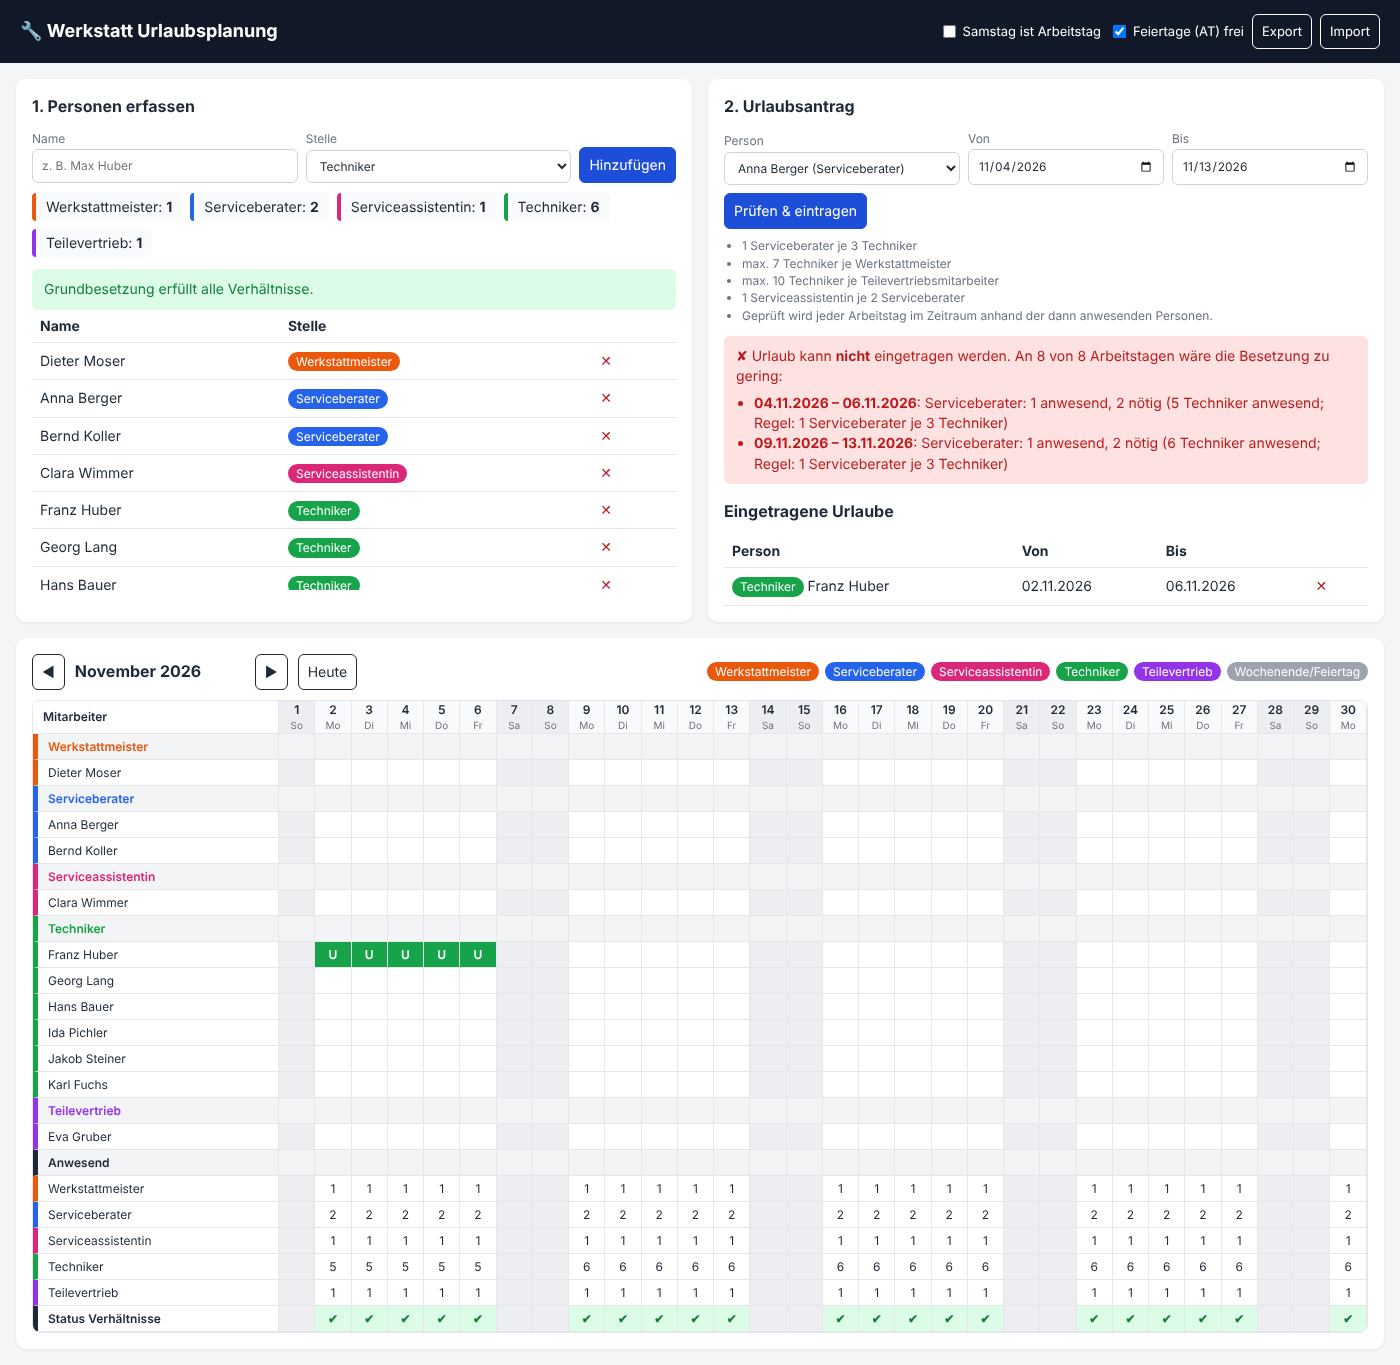
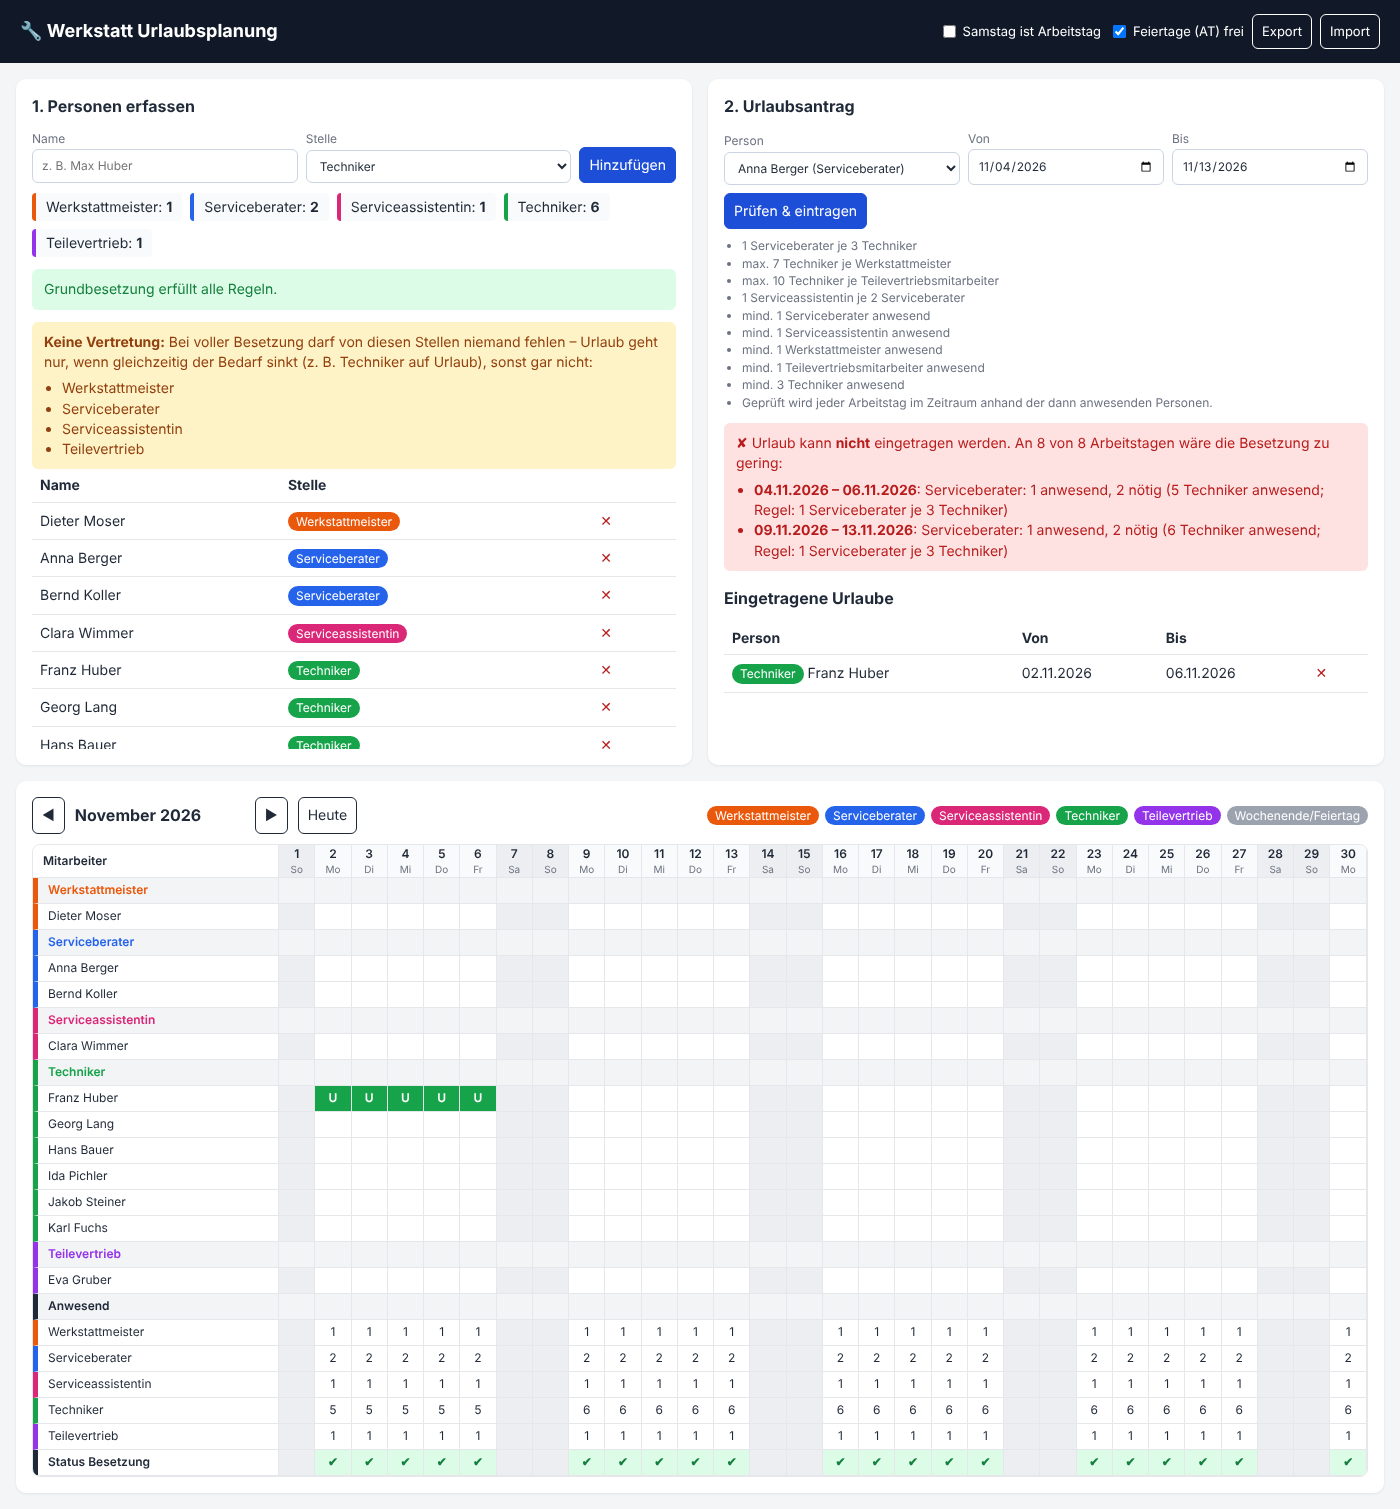
Mindestbesetzung je Stelle und Hinweis auf Stellen ohne Vertretung
Immer anwesend sein müssen mind. 1 Serviceberater, 1 Serviceassistentin,
1 Werkstattmeister, 1 Teilevertriebsmitarbeiter und 3 Techniker. Stellen,
bei denen bei voller Besetzung niemand fehlen darf, werden angezeigt.

Claude-Session: https://claude.ai/code/session_01HcJAJ2dLJcx57wHRAHDGje

diff --git a/rules.js b/rules.js
@@ -20,6 +20,12 @@
     { role: 'MEISTER', base: 'TECH', per: 7,  text: 'max. 7 Techniker je Werkstattmeister' },
     { role: 'TEILE',   base: 'TECH', per: 10, text: 'max. 10 Techniker je Teilevertriebsmitarbeiter' },
     { role: 'ASSIST',  base: 'SB',   per: 2,  text: '1 Serviceassistentin je 2 Serviceberater' },
+    // Mindestbesetzung je Stelle, unabhängig von den Verhältnissen
+    { role: 'SB',      min: 1, text: 'mind. 1 Serviceberater anwesend' },
+    { role: 'ASSIST',  min: 1, text: 'mind. 1 Serviceassistentin anwesend' },
+    { role: 'MEISTER', min: 1, text: 'mind. 1 Werkstattmeister anwesend' },
+    { role: 'TEILE',   min: 1, text: 'mind. 1 Teilevertriebsmitarbeiter anwesend' },
+    { role: 'TECH',    min: 3, text: 'mind. 3 Techniker anwesend' },
   ];
 
   // ---------- Datumshilfen (alles in UTC, Format YYYY-MM-DD) ----------
@@ -117,16 +123,16 @@
   function violations(counts) {
     const out = [];
     for (const r of RULES) {
-      const required = Math.ceil(counts[r.base] / r.per);
+      const required = r.min !== undefined ? r.min : Math.ceil(counts[r.base] / r.per);
       if (counts[r.role] < required) {
+        const why = r.min !== undefined
+          ? `Mindestbesetzung: ${r.text}`
+          : `${counts[r.base]} ${ROLES[r.base].label} anwesend; Regel: ${r.text}`;
         out.push({
           rule: r,
           required,
           present: counts[r.role],
-          base: counts[r.base],
-          message:
-            `${ROLES[r.role].label}: ${counts[r.role]} anwesend, ${required} nötig ` +
-            `(${counts[r.base]} ${ROLES[r.base].label} anwesend; Regel: ${r.text})`,
+          message: `${ROLES[r.role].label}: ${counts[r.role]} anwesend, ${required} nötig (${why})`,
         });
       }
     }
@@ -177,6 +183,20 @@
     return { ok: conflicts.length === 0, errors, conflicts, workdays: days.length };
   }
 
+  /*
+   * Stellen ohne Vertretung: Fehlt eine Person dieser Stelle bei sonst voller Besetzung,
+   * ist eine Regel verletzt. Diese Personen können nur Urlaub nehmen, wenn sich
+   * der Bedarf durch andere Abwesenheiten senkt (oder gar nicht).
+   */
+  function rolesWithoutCover(persons) {
+    const full = presentCounts('', persons, []);
+    return ROLE_ORDER.filter(role => {
+      if (!full[role]) return false;
+      const less = Object.assign({}, full, { [role]: full[role] - 1 });
+      return violations(less).length > violations(full).length;
+    });
+  }
+
   // Fasst aufeinanderfolgende Konflikttage mit gleicher Meldung zu Zeiträumen zusammen
   function groupConflicts(conflicts) {
     const groups = [];
@@ -193,7 +213,7 @@
     ROLES, ROLE_ORDER, RULES,
     parse, fmt, addDays, eachDay, weekday, deDate,
     easter, holidays, holidayName, isWorkday,
-    isAbsent, presentCounts, violations, checkRequest, groupConflicts,
+    isAbsent, presentCounts, violations, checkRequest, groupConflicts, rolesWithoutCover,
   };
   if (typeof module !== 'undefined' && module.exports) module.exports = api;
   else root.Rules = api;

diff --git a/app.js b/app.js
@@ -43,8 +43,12 @@
 
     const v = R.violations(counts);
     $('baseCheck').innerHTML = !state.persons.length ? '' : v.length
-      ? `<div class="msg bad"><b>Grundbesetzung verletzt die Verhältnisse schon ohne Urlaub:</b><ul>${v.map(x => `<li>${esc(x.message)}</li>`).join('')}</ul></div>`
-      : '<div class="msg ok">Grundbesetzung erfüllt alle Verhältnisse.</div>';
+      ? `<div class="msg bad"><b>Grundbesetzung verletzt die Regeln schon ohne Urlaub:</b><ul>${v.map(x => `<li>${esc(x.message)}</li>`).join('')}</ul></div>`
+      : '<div class="msg ok">Grundbesetzung erfüllt alle Regeln.</div>';
+    const noCover = state.persons.length && !v.length ? R.rolesWithoutCover(state.persons) : [];
+    if (noCover.length) {
+      $('baseCheck').innerHTML += `<div class="msg warn"><b>Keine Vertretung:</b> Bei voller Besetzung darf von diesen Stellen niemand fehlen – Urlaub geht nur, wenn gleichzeitig der Bedarf sinkt (z. B. Techniker auf Urlaub), sonst gar nicht:<ul>${noCover.map(r => `<li>${R.ROLES[r].label}</li>`).join('')}</ul></div>`;
+    }
 
     const list = sortedPersons();
     $('tblPersons').innerHTML = list.length
@@ -192,10 +196,10 @@
         html += '</tr>';
       }
       // Gesamtstatus
-      html += '<tr class="sum"><td class="name">Status Verhältnisse</td>';
+      html += '<tr class="sum"><td class="name">Status Besetzung</td>';
       for (const i of dayInfo) {
         if (!i.work) { html += `<td class="off" title="${esc(i.hol || 'kein Arbeitstag')}"></td>`; continue; }
-        const tip = i.viol.length ? i.viol.map(v => v.message).join('\n') : 'Alle Verhältnisse erfüllt';
+        const tip = i.viol.length ? i.viol.map(v => v.message).join('\n') : 'Alle Regeln erfüllt';
         html += `<td class="${i.viol.length ? 'badc' : 'okc'}" title="${esc(tip)}">${i.viol.length ? '✘' : '✔'}</td>`;
       }
       html += '</tr>';

diff --git a/test/rules.test.js b/test/rules.test.js
@@ -72,3 +72,26 @@ test('Bestehende Unterbesetzung blockiert nicht unbeteiligte Stellen', () => {
   const res = R.checkRequest({ personId: 'TEILE0', from: '2026-11-02', to: '2026-11-03' }, persons, [], settings);
   assert.strictEqual(res.ok, true);
 });
+
+test('Mindestbesetzung: 3 Techniker müssen bleiben', () => {
+  const persons = team({ sb: 2, tech: 3, meister: 1, teile: 1, assist: 1 });
+  const res = R.checkRequest({ personId: 'TECH0', from: '2026-11-02', to: '2026-11-02' }, persons, [], settings);
+  assert.strictEqual(res.ok, false);
+  assert.match(res.conflicts[0].messages[0], /Techniker: 2 anwesend, 3 nötig \(Mindestbesetzung/);
+});
+
+test('Mindestbesetzung: letzter Werkstattmeister/Teilevertrieb/Assistentin/SB darf nicht fehlen', () => {
+  // Wenige Techniker -> Verhältnisse verlangen nichts, nur die Mindestbesetzung greift
+  const persons = team({ sb: 1, tech: 3, meister: 1, teile: 1, assist: 1 });
+  for (const id of ['MEISTER0', 'TEILE0', 'ASSIST0', 'SB0']) {
+    const res = R.checkRequest({ personId: id, from: '2026-11-02', to: '2026-11-02' }, persons, [], settings);
+    assert.strictEqual(res.ok, false, id);
+    assert.match(res.conflicts[0].messages.join(), /Mindestbesetzung/, id);
+  }
+});
+
+test('Stellen ohne Vertretung werden erkannt', () => {
+  const persons = team({ sb: 2, tech: 6, meister: 2, teile: 1, assist: 1 });
+  // SB: 6 TE brauchen 2 SB; TECH: 5 TE bleibt über Minimum; MEISTER: 2 vorhanden, 1 nötig
+  assert.deepStrictEqual(R.rolesWithoutCover(persons), ['SB', 'ASSIST', 'TEILE']);
+});

diff --git a/index.html b/index.html
@@ -34,6 +34,7 @@
     .msg { margin-top: 12px; padding: 10px 12px; border-radius: 6px; }
     .msg.ok { background: var(--ok-bg); color: var(--ok); }
     .msg.bad { background: var(--bad-bg); color: var(--bad); }
+    .msg.warn { background: #fef3c7; color: #92400e; }
     .msg ul { margin: 6px 0 0; padding-left: 18px; }
     .rules { font-size: 12px; color: var(--muted); margin: 8px 0 0; padding-left: 18px; }
     .scroll { max-height: 280px; overflow: auto; }

diff --git a/README.md b/README.md
@@ -19,6 +19,12 @@ einen anderen Rechner übertragen.
 | max. 10 Techniker je Teilevertrieb | Teilevertrieb ≥ ⌈Techniker / 10⌉ |
 | 1 Serviceassistentin je 2 Serviceberater | Serviceassistentin ≥ ⌈Serviceberater / 2⌉ |
 
+Zusätzlich gilt immer die **Mindestbesetzung**: mind. 1 Serviceberater, 1 Serviceassistentin,
+1 Werkstattmeister, 1 Teilevertriebsmitarbeiter und 3 Techniker.
+
+Stellen ohne Vertretung (wo bei voller Besetzung niemand fehlen darf) werden im Personenbereich
+gelb markiert.
+
 - Arbeitstage: Mo–Fr (Samstag optional), österreichische gesetzliche Feiertage optional frei.
 - Ist die Grundbesetzung schon ohne Urlaub unterbesetzt, blockiert das nur Anträge, die die
   Lage verschärfen – nicht unbeteiligte Stellen.
